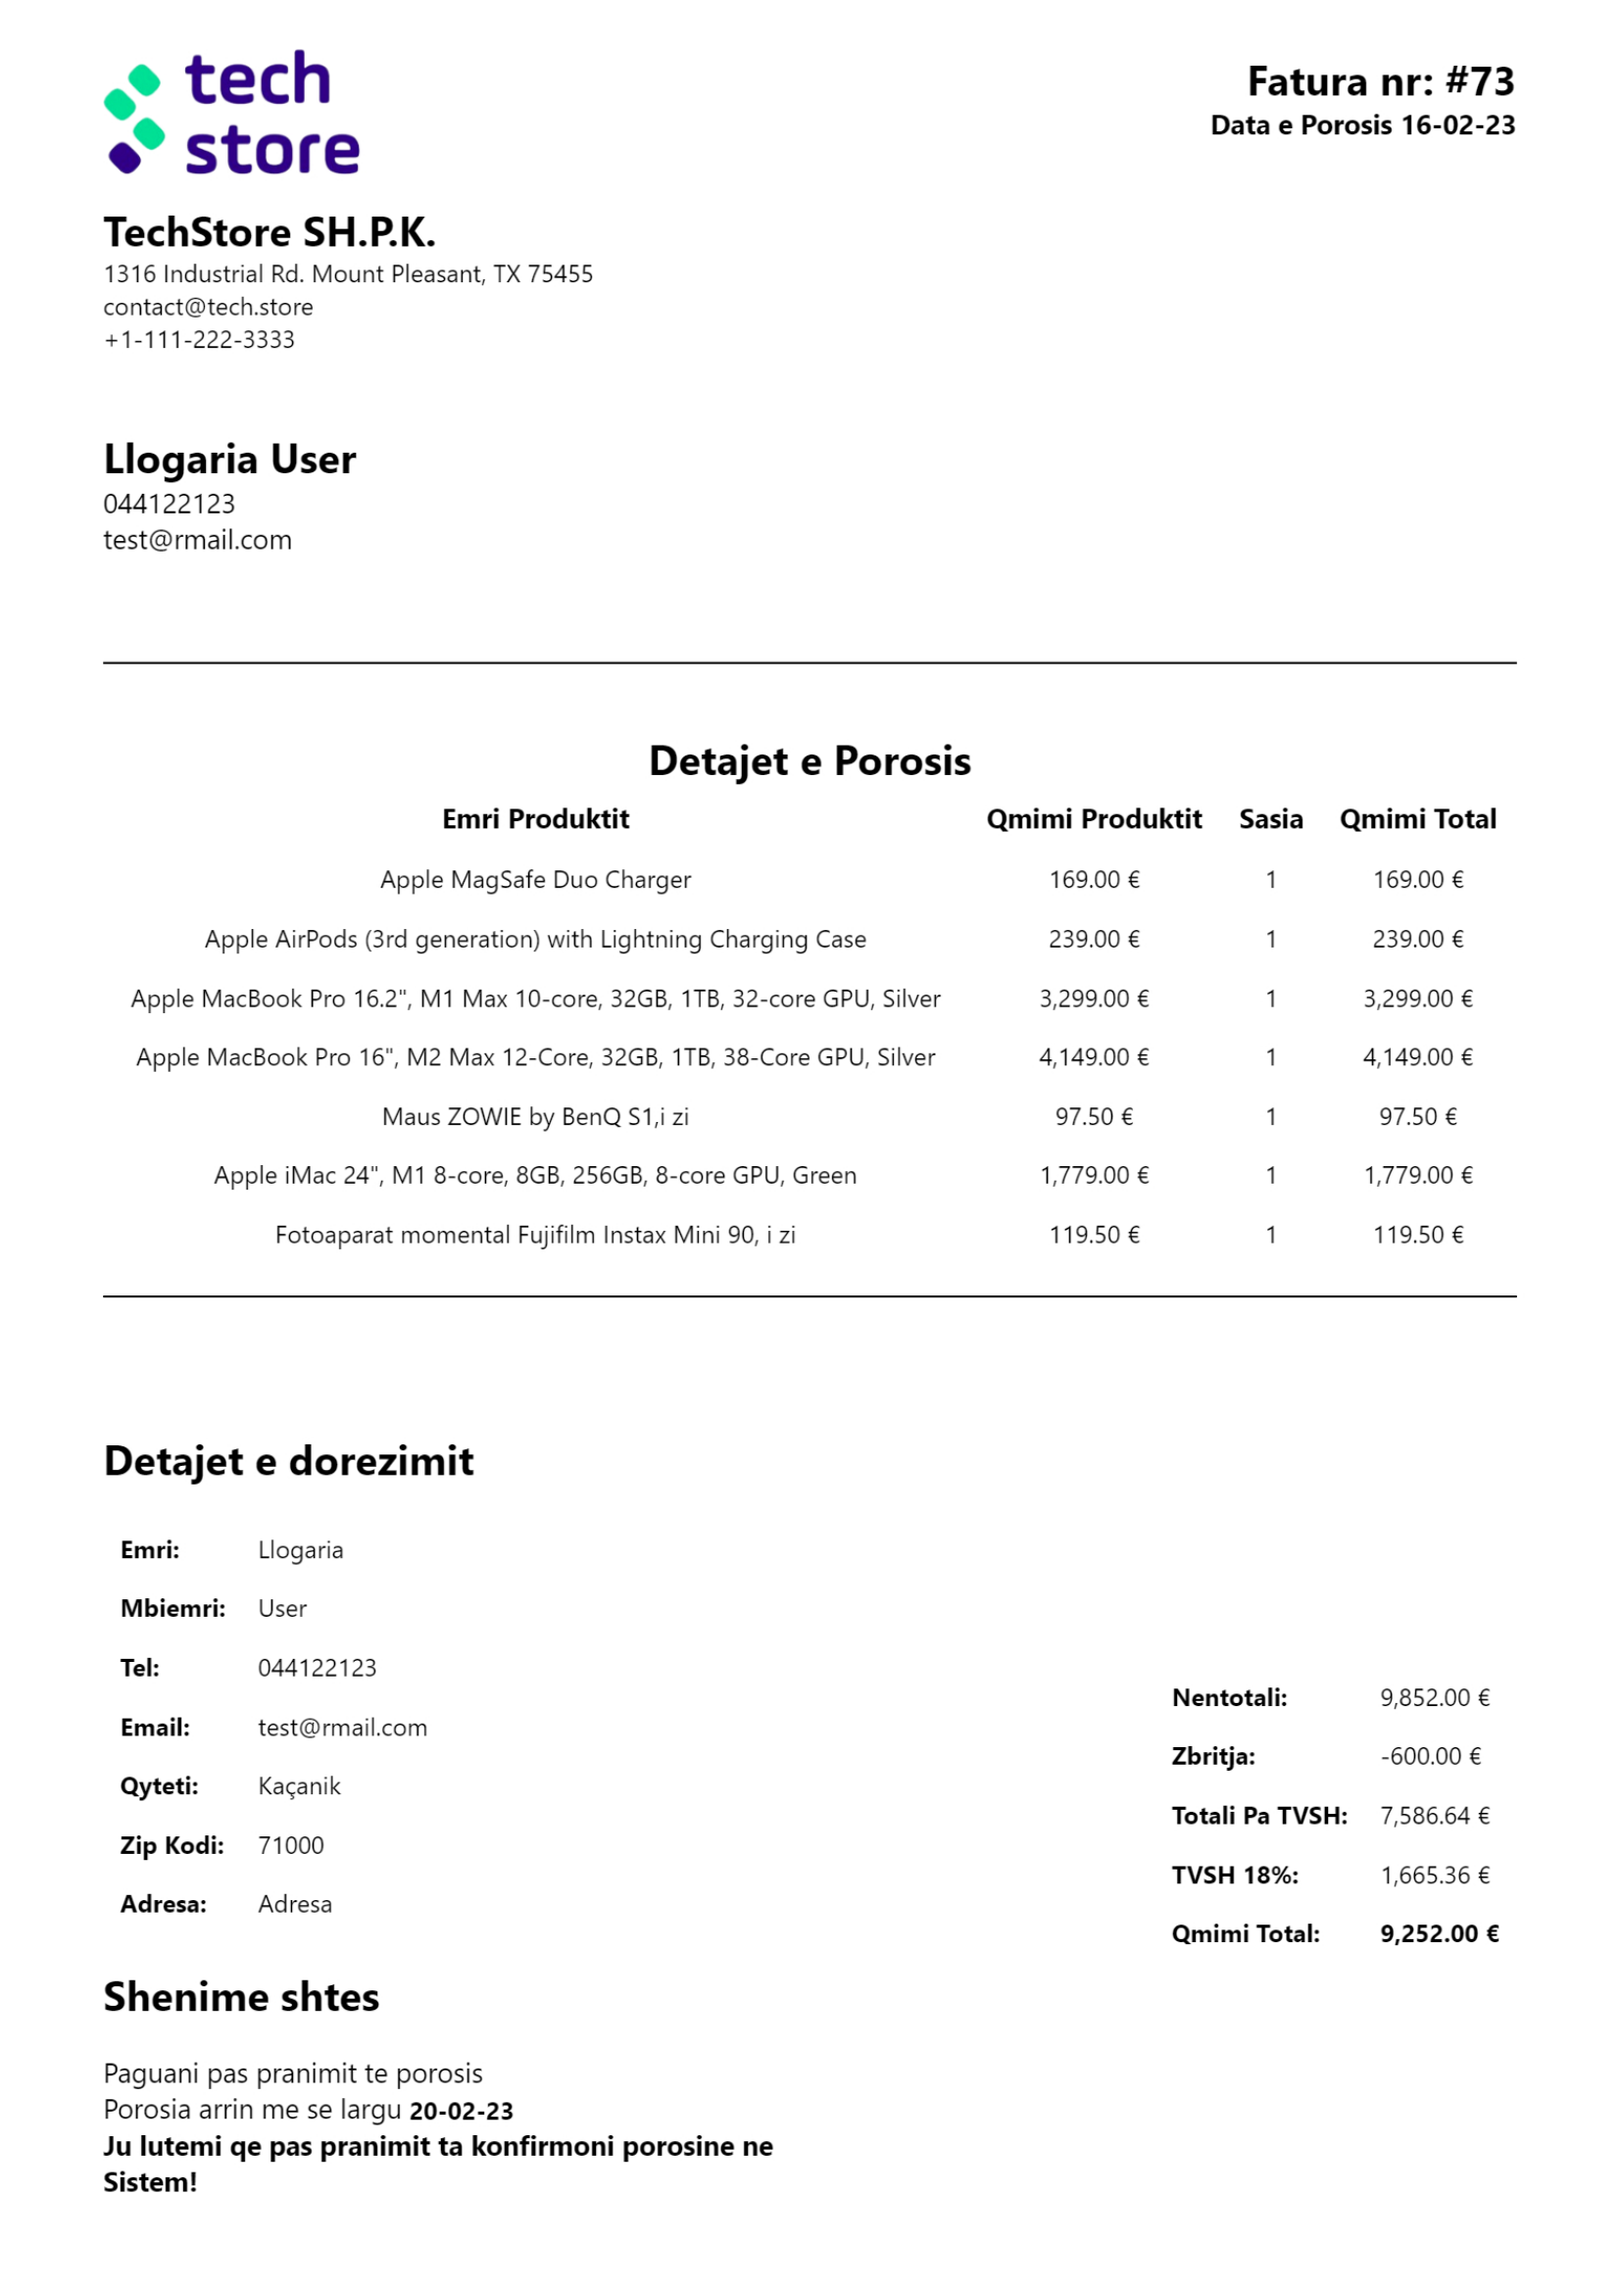
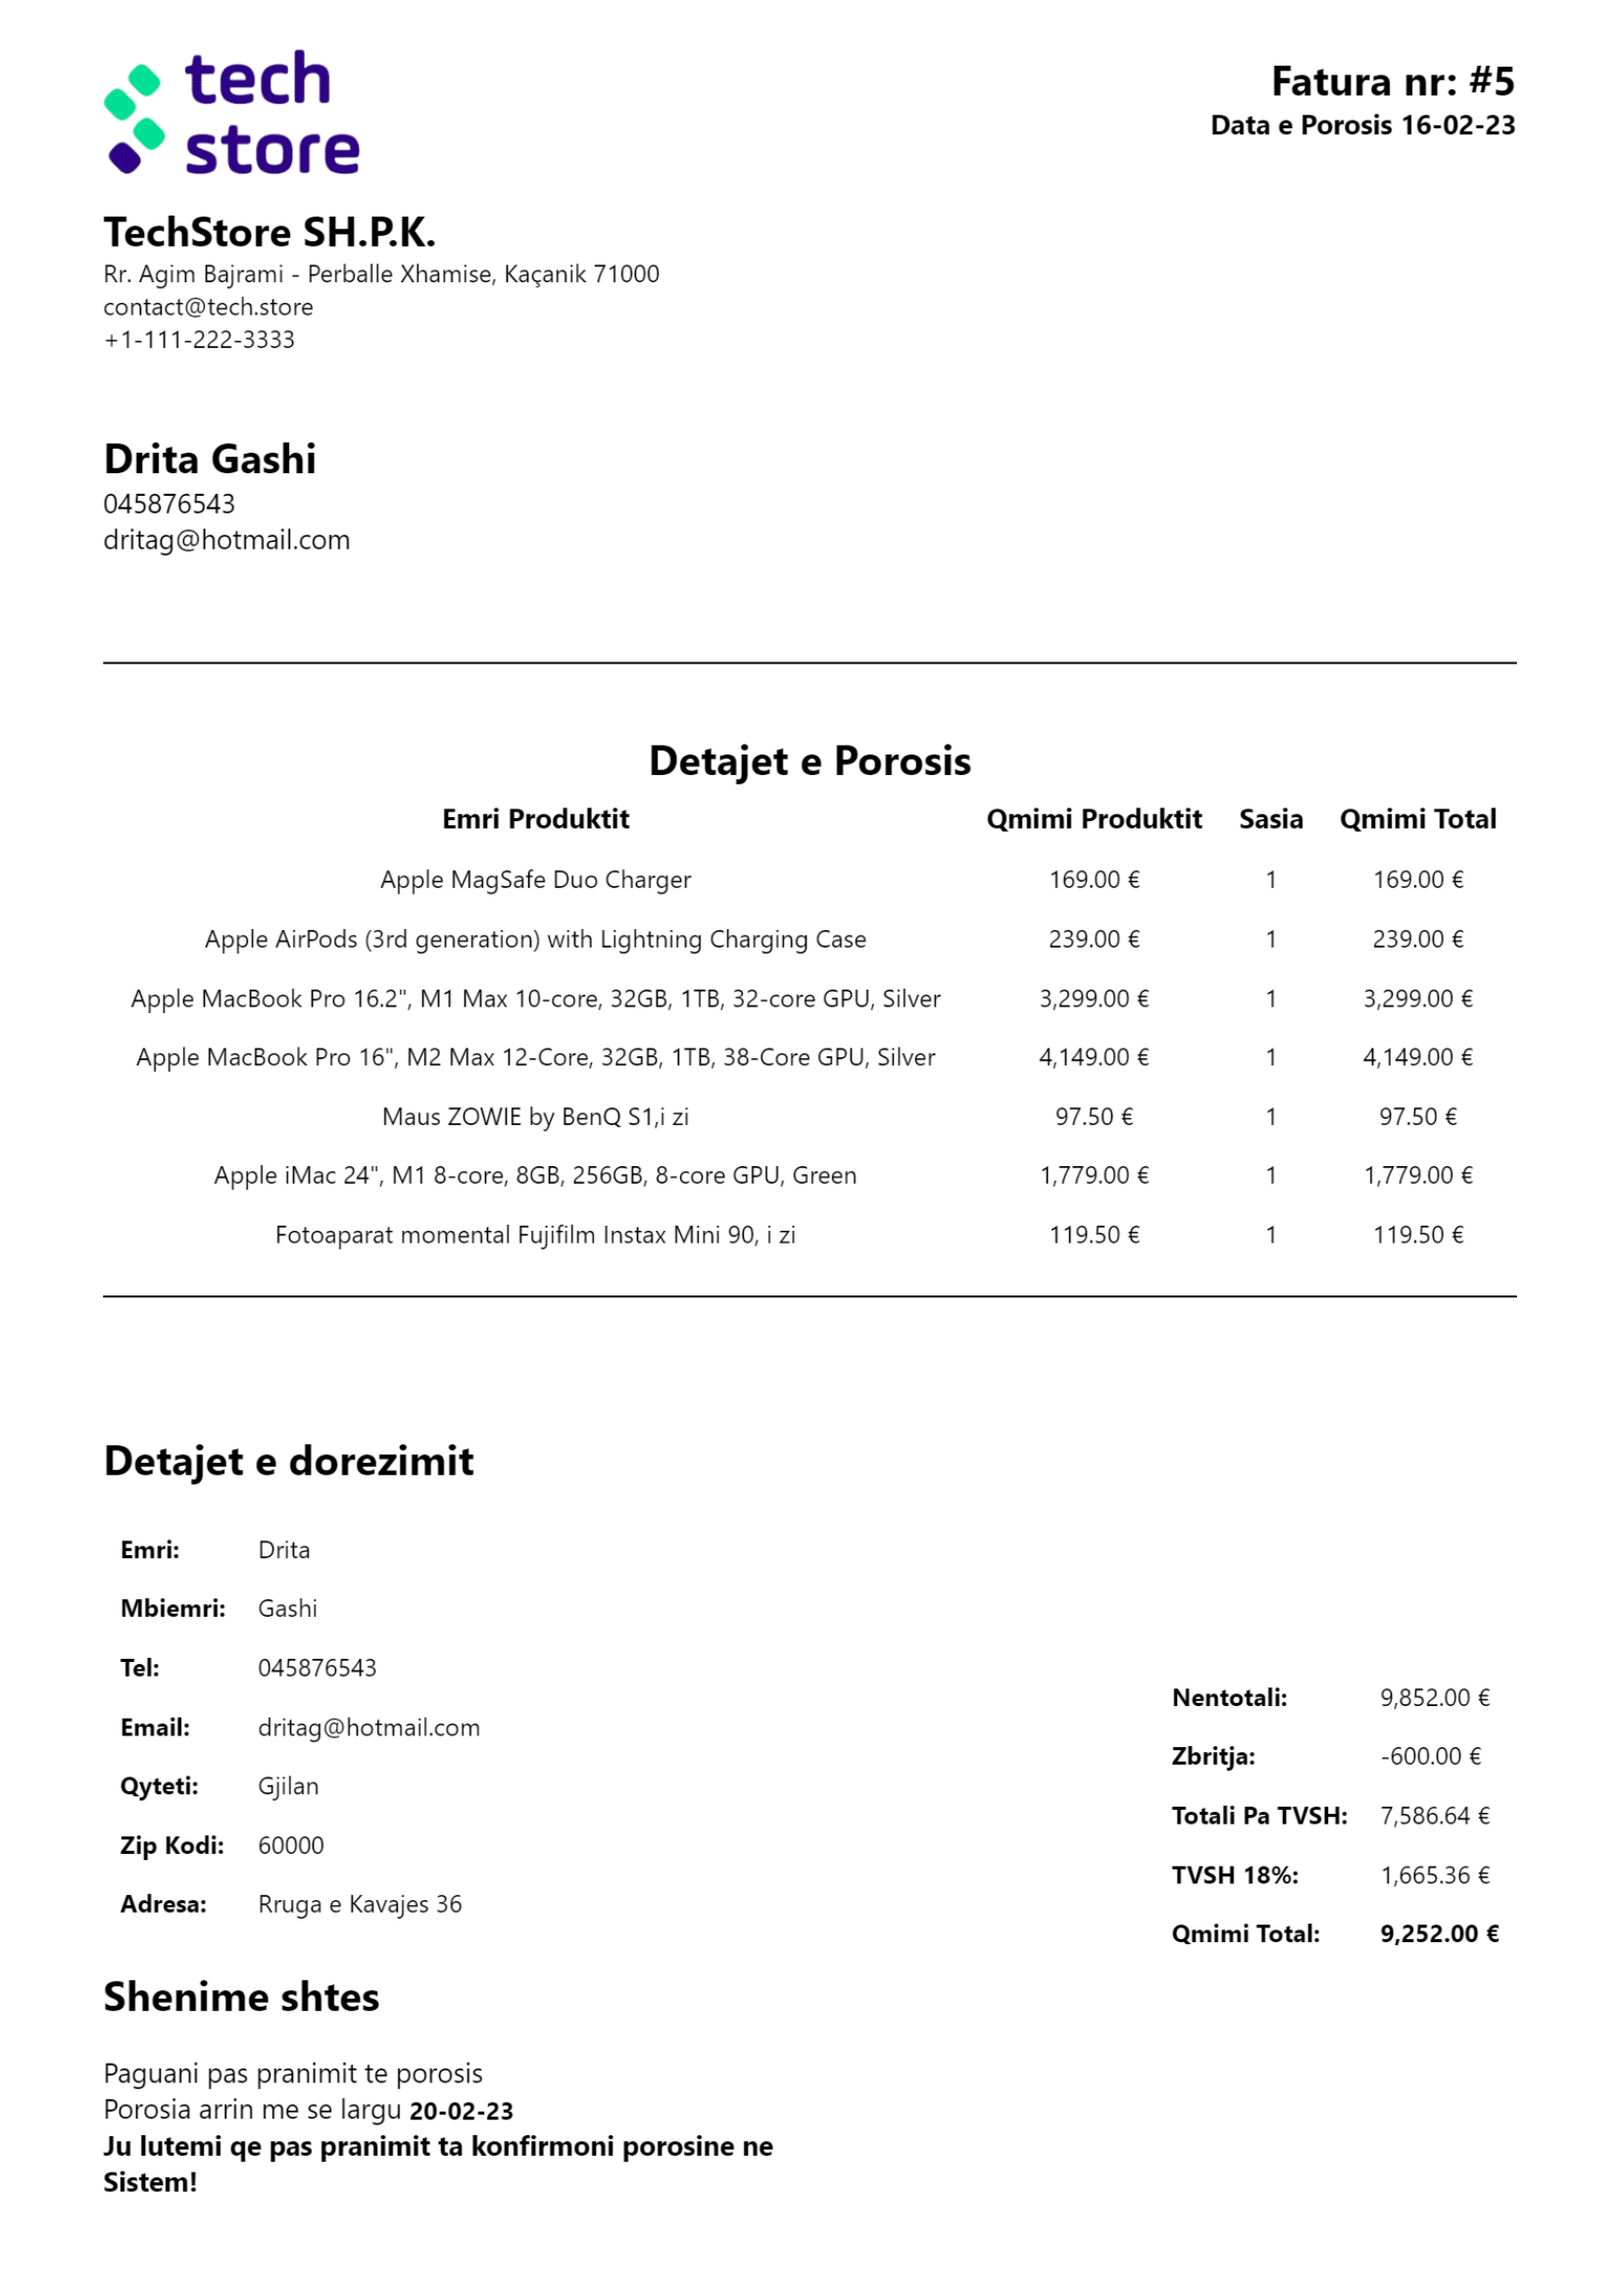
Eshte perditesuar README

diff --git a/php/design/footer.php b/php/design/footer.php
@@ -28,7 +28,7 @@
         <ul>
           <li><a href="tel:+11112223333">+1-111-222-3333</a></li>
           <li><a href="mailto:contact@tech.store">contact@tech.store</a></li>
-          <li>Rr. Agim Bajrami 69 - Perballe Xhamise, Kaçanik</li>
+          <li>Rr. Agim Bajrami - Perballe Xhamise, Kaçanik</li>
         </ul>
         <div class="footer-social-icons">
           <a href="https://facebook.com"><i class="fa-brands">&#xf09a;</i></a>

diff --git a/php/funksione/fatura.php b/php/funksione/fatura.php
@@ -85,7 +85,7 @@ $nentotali = 0;
     <div class="teDhenatKompanis">
       <img src="../../img/web/techstoreLogoWhiteSquare.png">
       <h1>TechStore SH.P.K.</h1>
-      <p>1316 Industrial Rd. Mount Pleasant, TX 75455</p>
+      <p>Rr. Agim Bajrami - Perballe Xhamise, Kaçanik 71000</p>
       <p>contact@tech.store</p>
       <p>+1-111-222-3333</p>
 

diff --git a/README.md b/README.md
@@ -38,7 +38,7 @@ Profesoret:
 
 ## Konfigurimi
 
-Se pari ju duhet te importoni databazen e Web-it ne **phpMyAdmin (MySQL)** e cila gjendet ne folderin sqlDatabaza me emrin **techstoredb.sql**, ne rast se e zevendesoni tabelen e vjeter me te nje version me te ri mos harroni te ndaloni opsionin e **Enable foreign key checks**.
+Se pari ju duhet te importoni databazen e Web-it ne **phpMyAdmin (MySQL)** e cila gjendet ne folderin sqlDatabaza me emrin **techstoredb.sql**.
 
 Pasi qe te behet konfigurimi ju mund te kyqeni me keto te dhena:
 
@@ -57,6 +57,10 @@ Pasi qe te behet konfigurimi ju mund te kyqeni me keto te dhena:
 ### Produktet - Klient
 
 ![About Us | TechStore](img/READMEImg/produktet.png?raw=true)
+
+### Detajet e Produktit
+
+![About Us | TechStore](img/READMEImg/produkti.png?raw=true)
 
 ### Forma e thjesht
 
